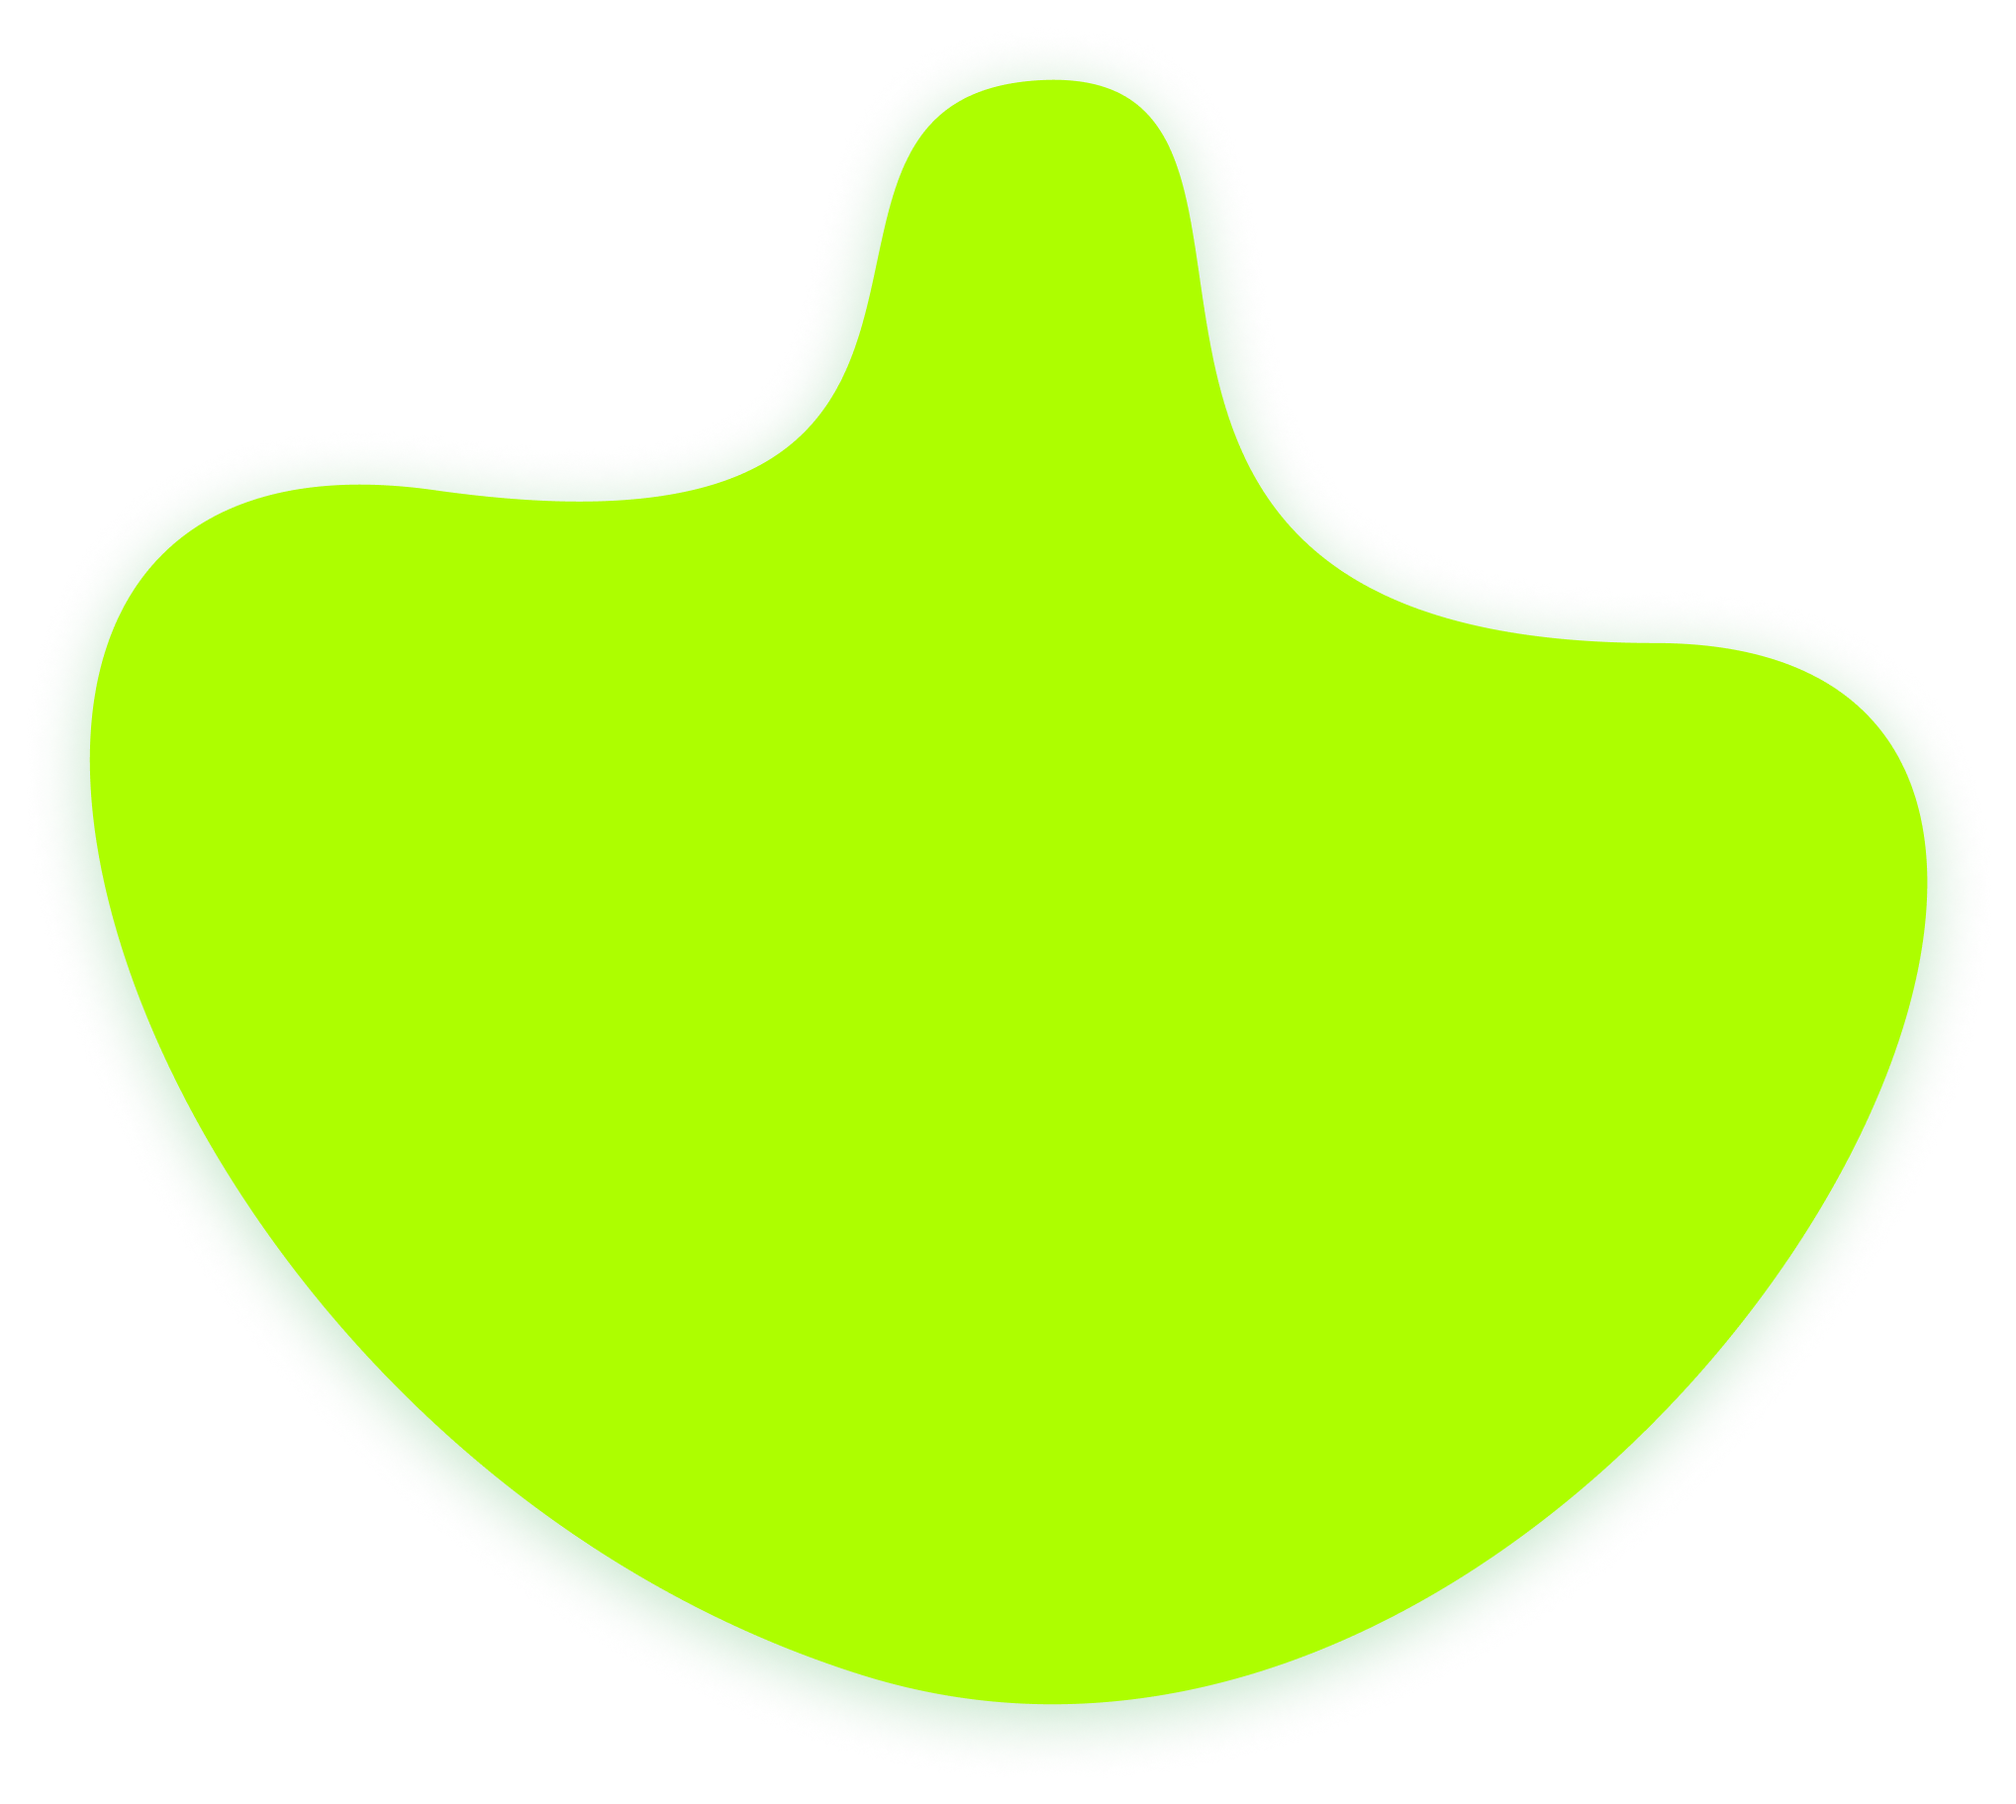
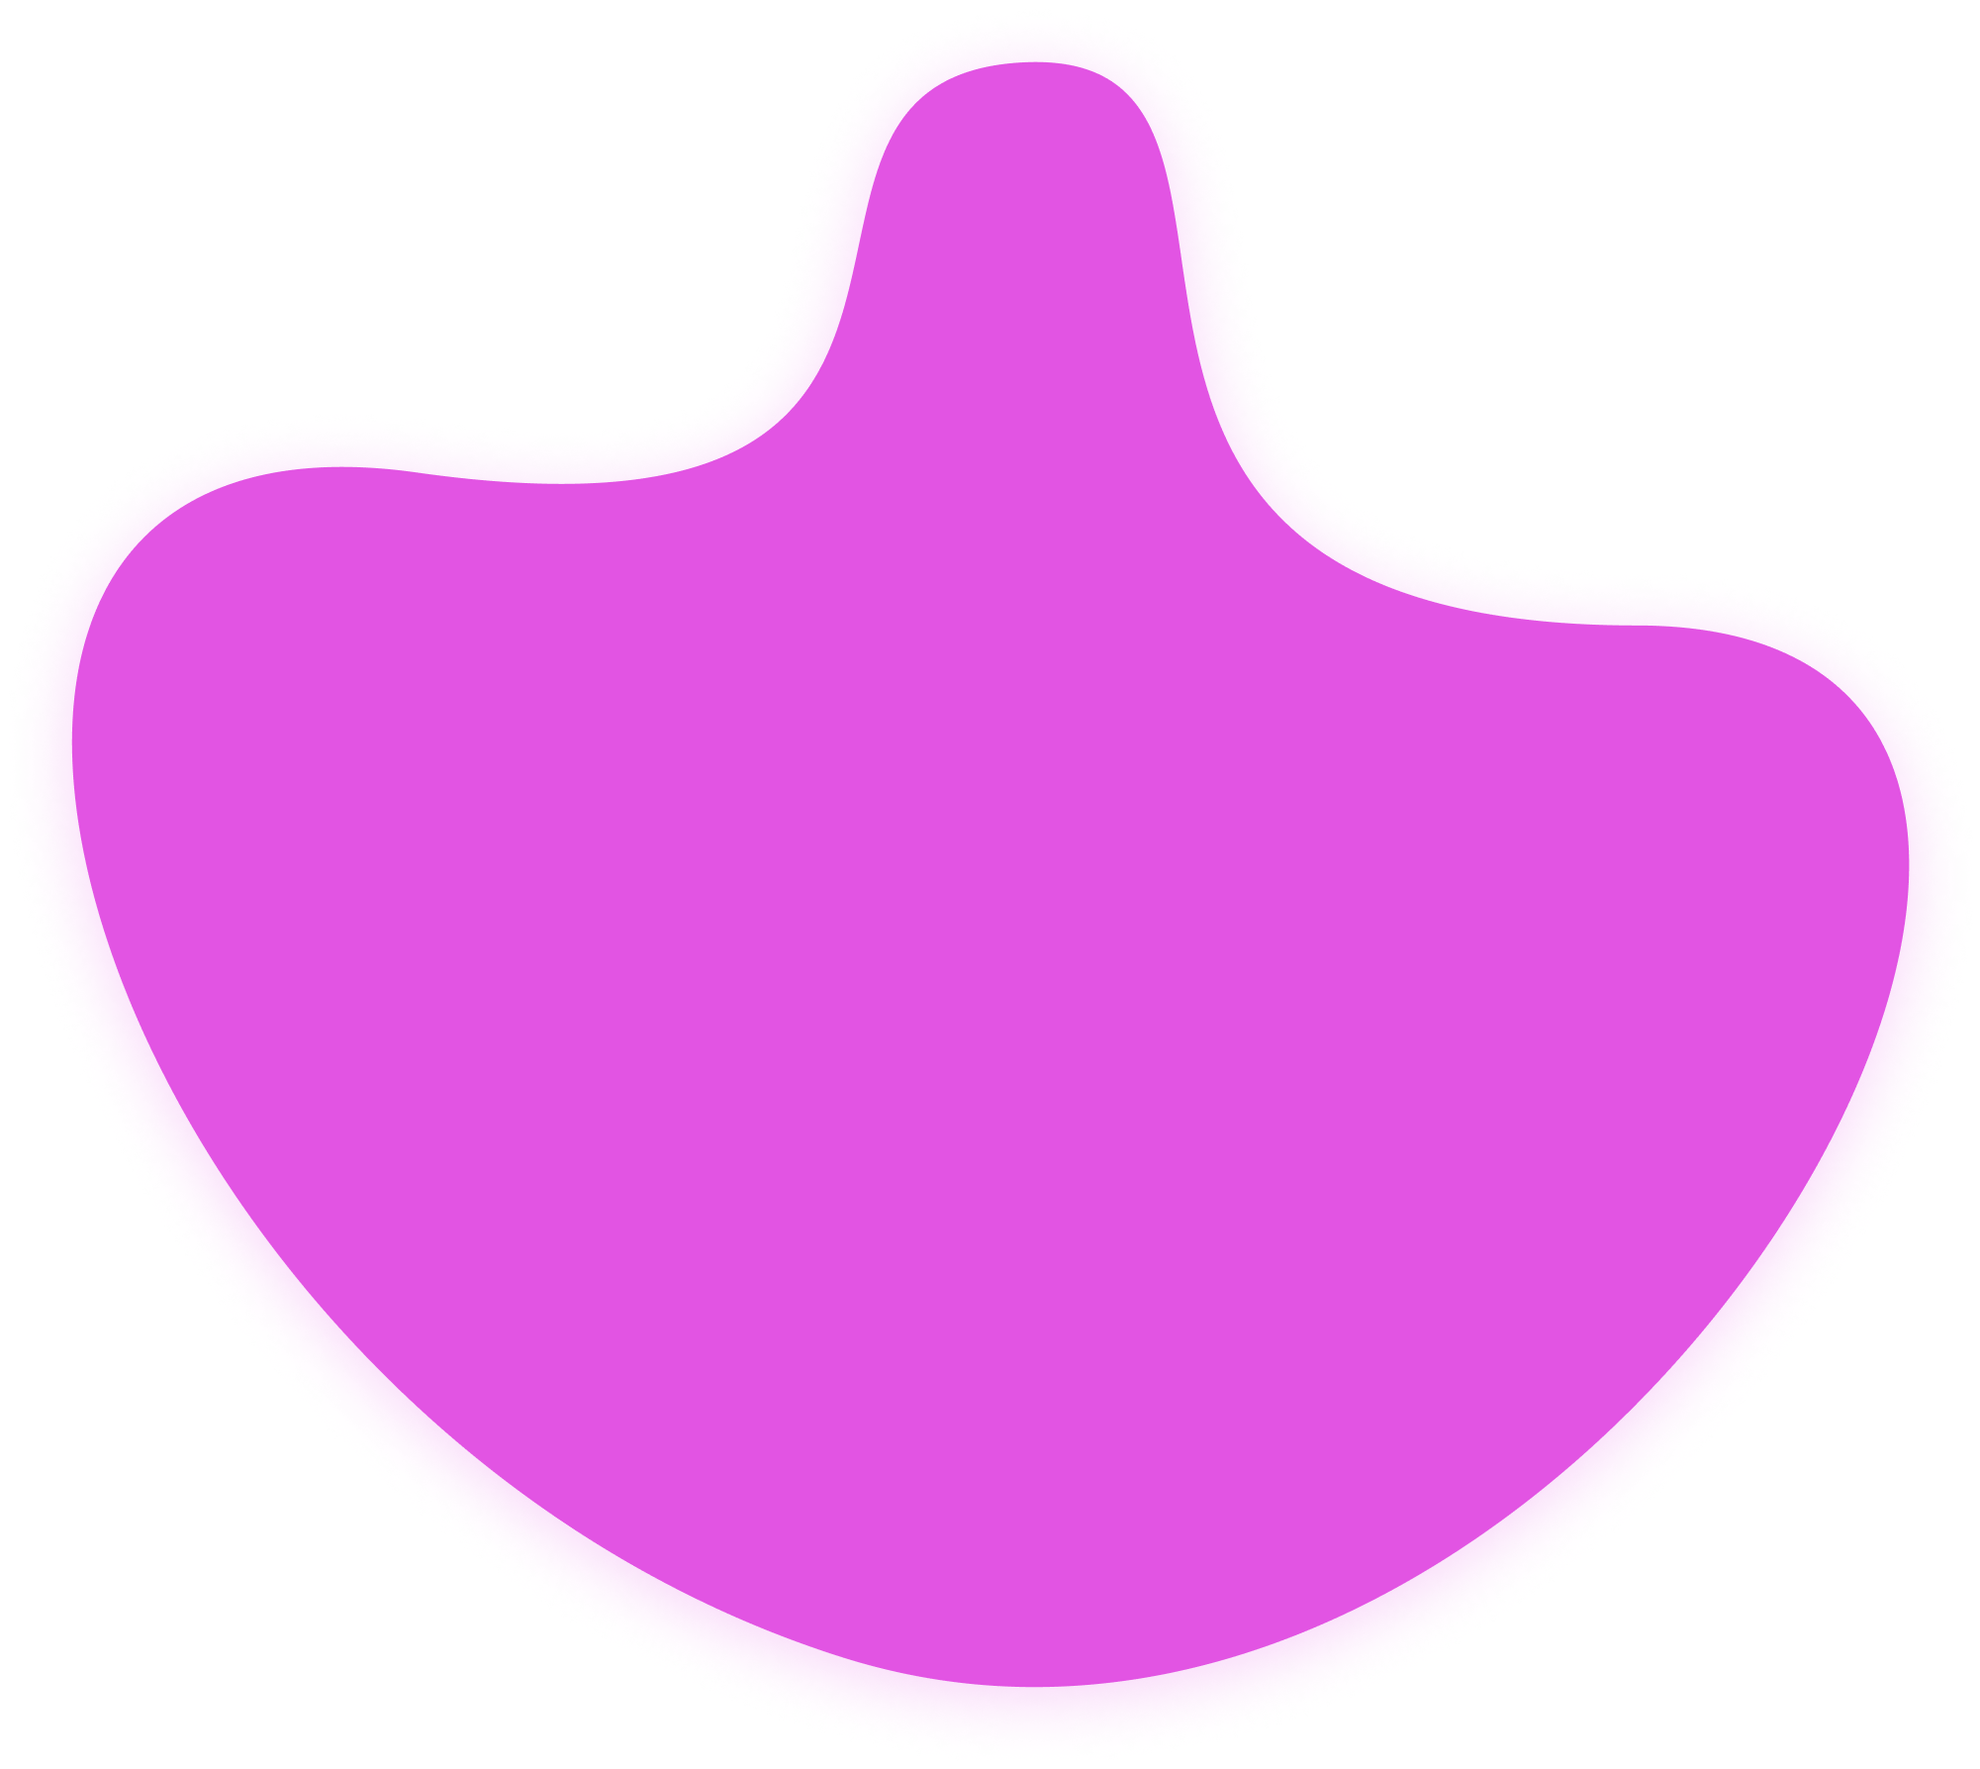
UI Changes - mainly colors

diff --git a/style.css b/style.css
@@ -7,8 +7,8 @@ box-sizing: border-box;
 
 html, body {
     --border-radius: 24px;
-    --light-green: #F2F8F1;
-    --Black-green: #0D170C;
+    --light-green: #F3F3FD;
+    --Black-green: #5459E4;
     margin: 0;    
     color: var(--Black-green);
     font-size: 23px;
@@ -70,7 +70,7 @@ nav ul li {
 h1 {
 font-size: 80px;
 font-weight: 400;
-color: #6B52E7; 
+color: #F6F5F4; 
 margin: 0; 
 }
 
@@ -81,7 +81,7 @@ margin: 0%;
 /*navigation items hover state */
 
 nav ul li :hover {
-    color: #403F00;
+    color: #E254E3;
 }
 
 /* about section */
@@ -106,7 +106,7 @@ section.about article .title {
     flex: 2;
     display: flex;
     align-items: flex-end;
-    background: #93FAFF;
+    background: #54E3C2;
     border-radius: var(--border-radius);
     padding: 2.125vw;
     transition: flex-basis 1s cubic-bezier(0,.94,.95,.48); 
@@ -118,8 +118,8 @@ section.about article .description {
     align-items: center;
     border-radius: var(--border-radius);
     padding: 2.125vw;
-    background: #403F00;
-    color: #93FAFF;
+    background: #e6e7fb;
+    color: #5459E4;
     min-width: 42vw; 
 
 }
@@ -140,7 +140,7 @@ section.service figure {
     justify-content: center;
     flex-basis: 56.25vw;
     margin: 0;
-    background: #02B727;
+    background: #54E3C2;
     border-radius: var(--border-radius);
     gap: 12px;
 }
@@ -164,6 +164,10 @@ section.service .text {
     background: var(--light-green);
     padding: 2.125vw;
     border-radius: var(--border-radius);
+}
+
+section.service-css .text {
+    background: #E6E7FB; 
 }
 
 section.service .text a {
@@ -191,7 +195,7 @@ section.service .text a {
 
 /* HTML section */
 section.service.service-html figure {
-    background: #02B727; 
+    background: #54E3C2; 
 }
 
 section.service.service-html .text h2,
@@ -199,14 +203,10 @@ section.service.service-html .text a {
     color: var(--Black-green); 
 }
 
-section.service.service-html a:hover {
-    color: #96D906;
-}
-
 /* CSS section */
 section.service.service-css figure {
 
-    background: #ECFE03;
+    background: #4DD2B4;
 }
 
 section.service.service-css .text h2,
@@ -214,13 +214,9 @@ section.service.service-css .text a {
     color: var(--Black-green); 
 }
 
-section.service.service-css a:hover {
-    color: #6B52E7;
-}
-
 /* JavaScript section */
 section.service.service-js figure {
-    background: #01ECFE; 
+    background: #54E3C2; 
 }
 
 section.service.service-js .text h2,
@@ -228,18 +224,14 @@ section.service.service-js .text a {
     color: var(--Black-green);
 }
 
-section.service.service-js a:hover {
-    color: #FE01ED;
-}
-
 /* contact section */
 
 section.contact {
     background-color: #F2F8F1; 
     background-image: 
-    radial-gradient(circle at 20% 30%, rgb(79, 255, 143), transparent 100%), 
-    radial-gradient(circle at 80% 70%, rgb(255, 55, 245), transparent 100%), 
-    radial-gradient(circle at 50% 50%, rgb(108, 240, 255), transparent 100%);
+    radial-gradient(circle at 20% 30%, #54E3C2, transparent 100%), 
+    radial-gradient(circle at 80% 70%, #5459E4, transparent 100%), 
+    radial-gradient(circle at 50% 50%, #e6e7fb, transparent 100%);
     align-items: center;
     justify-content: center;
     border-radius: var(--border-radius);
@@ -252,10 +244,10 @@ section.contact a {
     color: var(--light-green);
 }
 
-/* email link hover state */
+/* linkedin link hover state */
 
 section.contact a:hover {
-    color: #6C53E7;
+    color: #E4DF53;
 }
 
 /* Responsive Styles */

diff --git a/index.html b/index.html
@@ -79,9 +79,9 @@
 
         let figureElement = document.querySelectorAll ('figure');
 
-        emptyElement.style.background = '#ECFE03'; 
+        emptyElement.style.background = '#B9E453'; 
         setTimeout(()=>{
-            emptyElement.style.background = '#6C53E7'; 
+            emptyElement.style.background = '#B9E453'; 
         },5*1000)
      
     window.addEventListener('mousemove', handleMouseMove);
